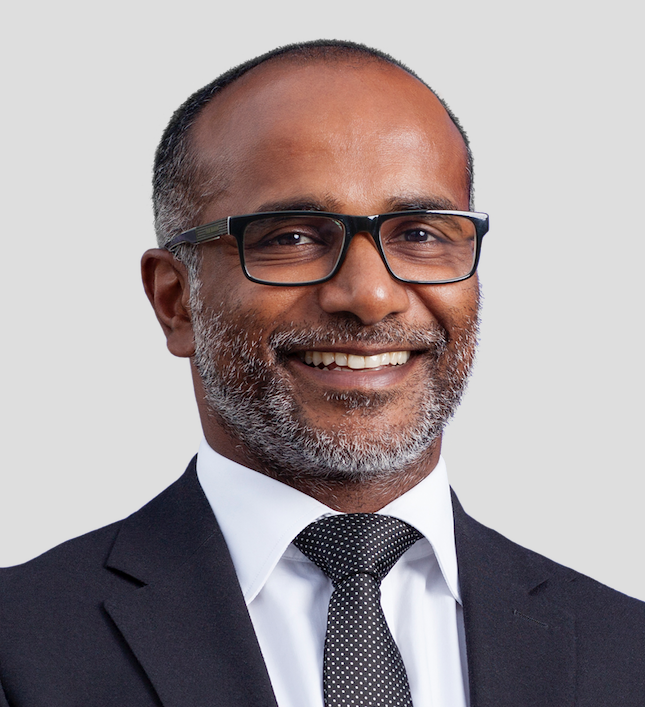
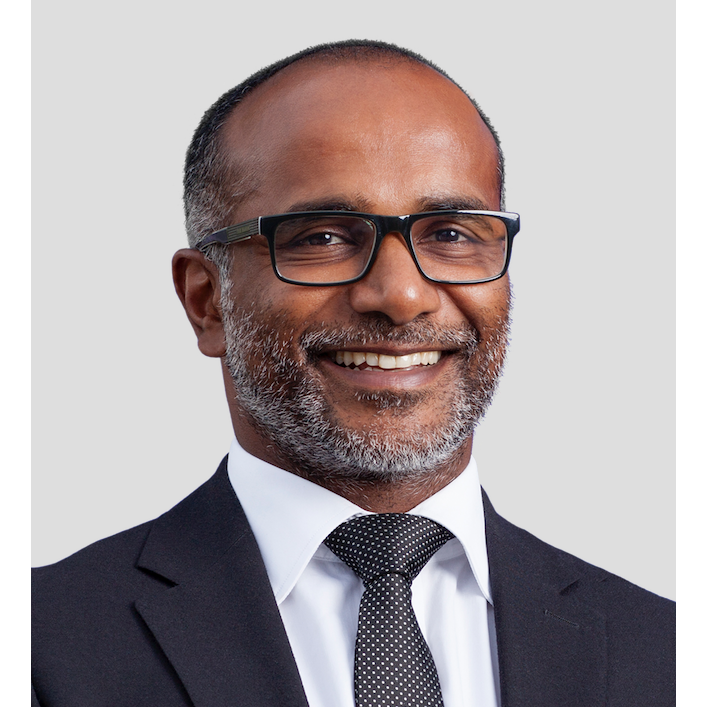
update mark dawson images

diff --git a/_portfolio/c-02-mark-dawson.md b/_portfolio/c-02-mark-dawson.md
@@ -1,7 +1,7 @@
 ---
 title: Prof Mark Dawson
 subtitle: Physician-Scientist and Associate Director of Research, Peter MacCallum Cancer Centre
-image: assets/img/portfolio/dawson-full.png
+image: assets/img/portfolio/dawson-full.jpg
 alt: Photo of Prof Mark Dawson
 
 caption:
